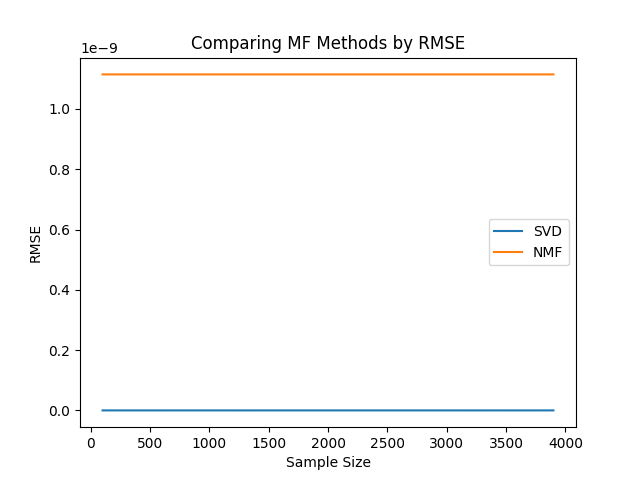
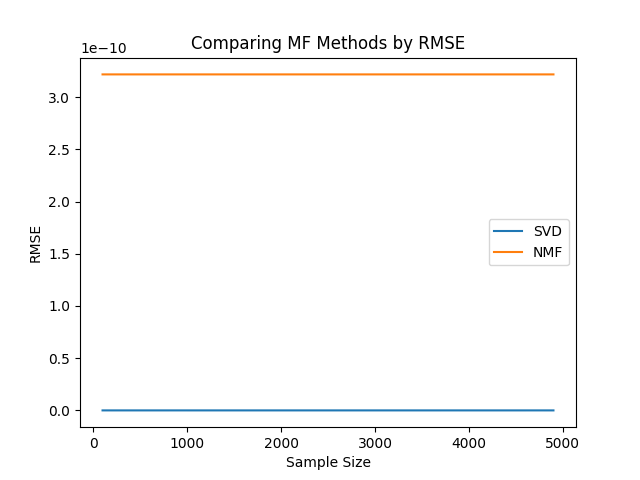
Adding plot changes

diff --git a/final_from_scratch.py b/final_from_scratch.py
@@ -206,7 +206,7 @@ sparse_matrix = sparse.csr_matrix((df.rating.values, (df.user_id.values, df.movi
 # convert to a numpy array
 sparse_matrix = sparse.csr_matrix.toarray(sparse_matrix)
 
-print(sparse_matrix.shape)
+#print(sparse_matrix.shape)
 
 #print(sparse_matrix)
 
@@ -214,7 +214,7 @@ print(sparse_matrix.shape)
 num_components = matrix_rank(sparse_matrix) # num_components is usually the rank of the matrix
 #print(num_components)
 learning_rate = 0.001
-num_epochs = 2000
+num_epochs = 3000
 # create a list of epochs for plotting purposes
 epochs_lst = [i for i in range(num_epochs)]
 
